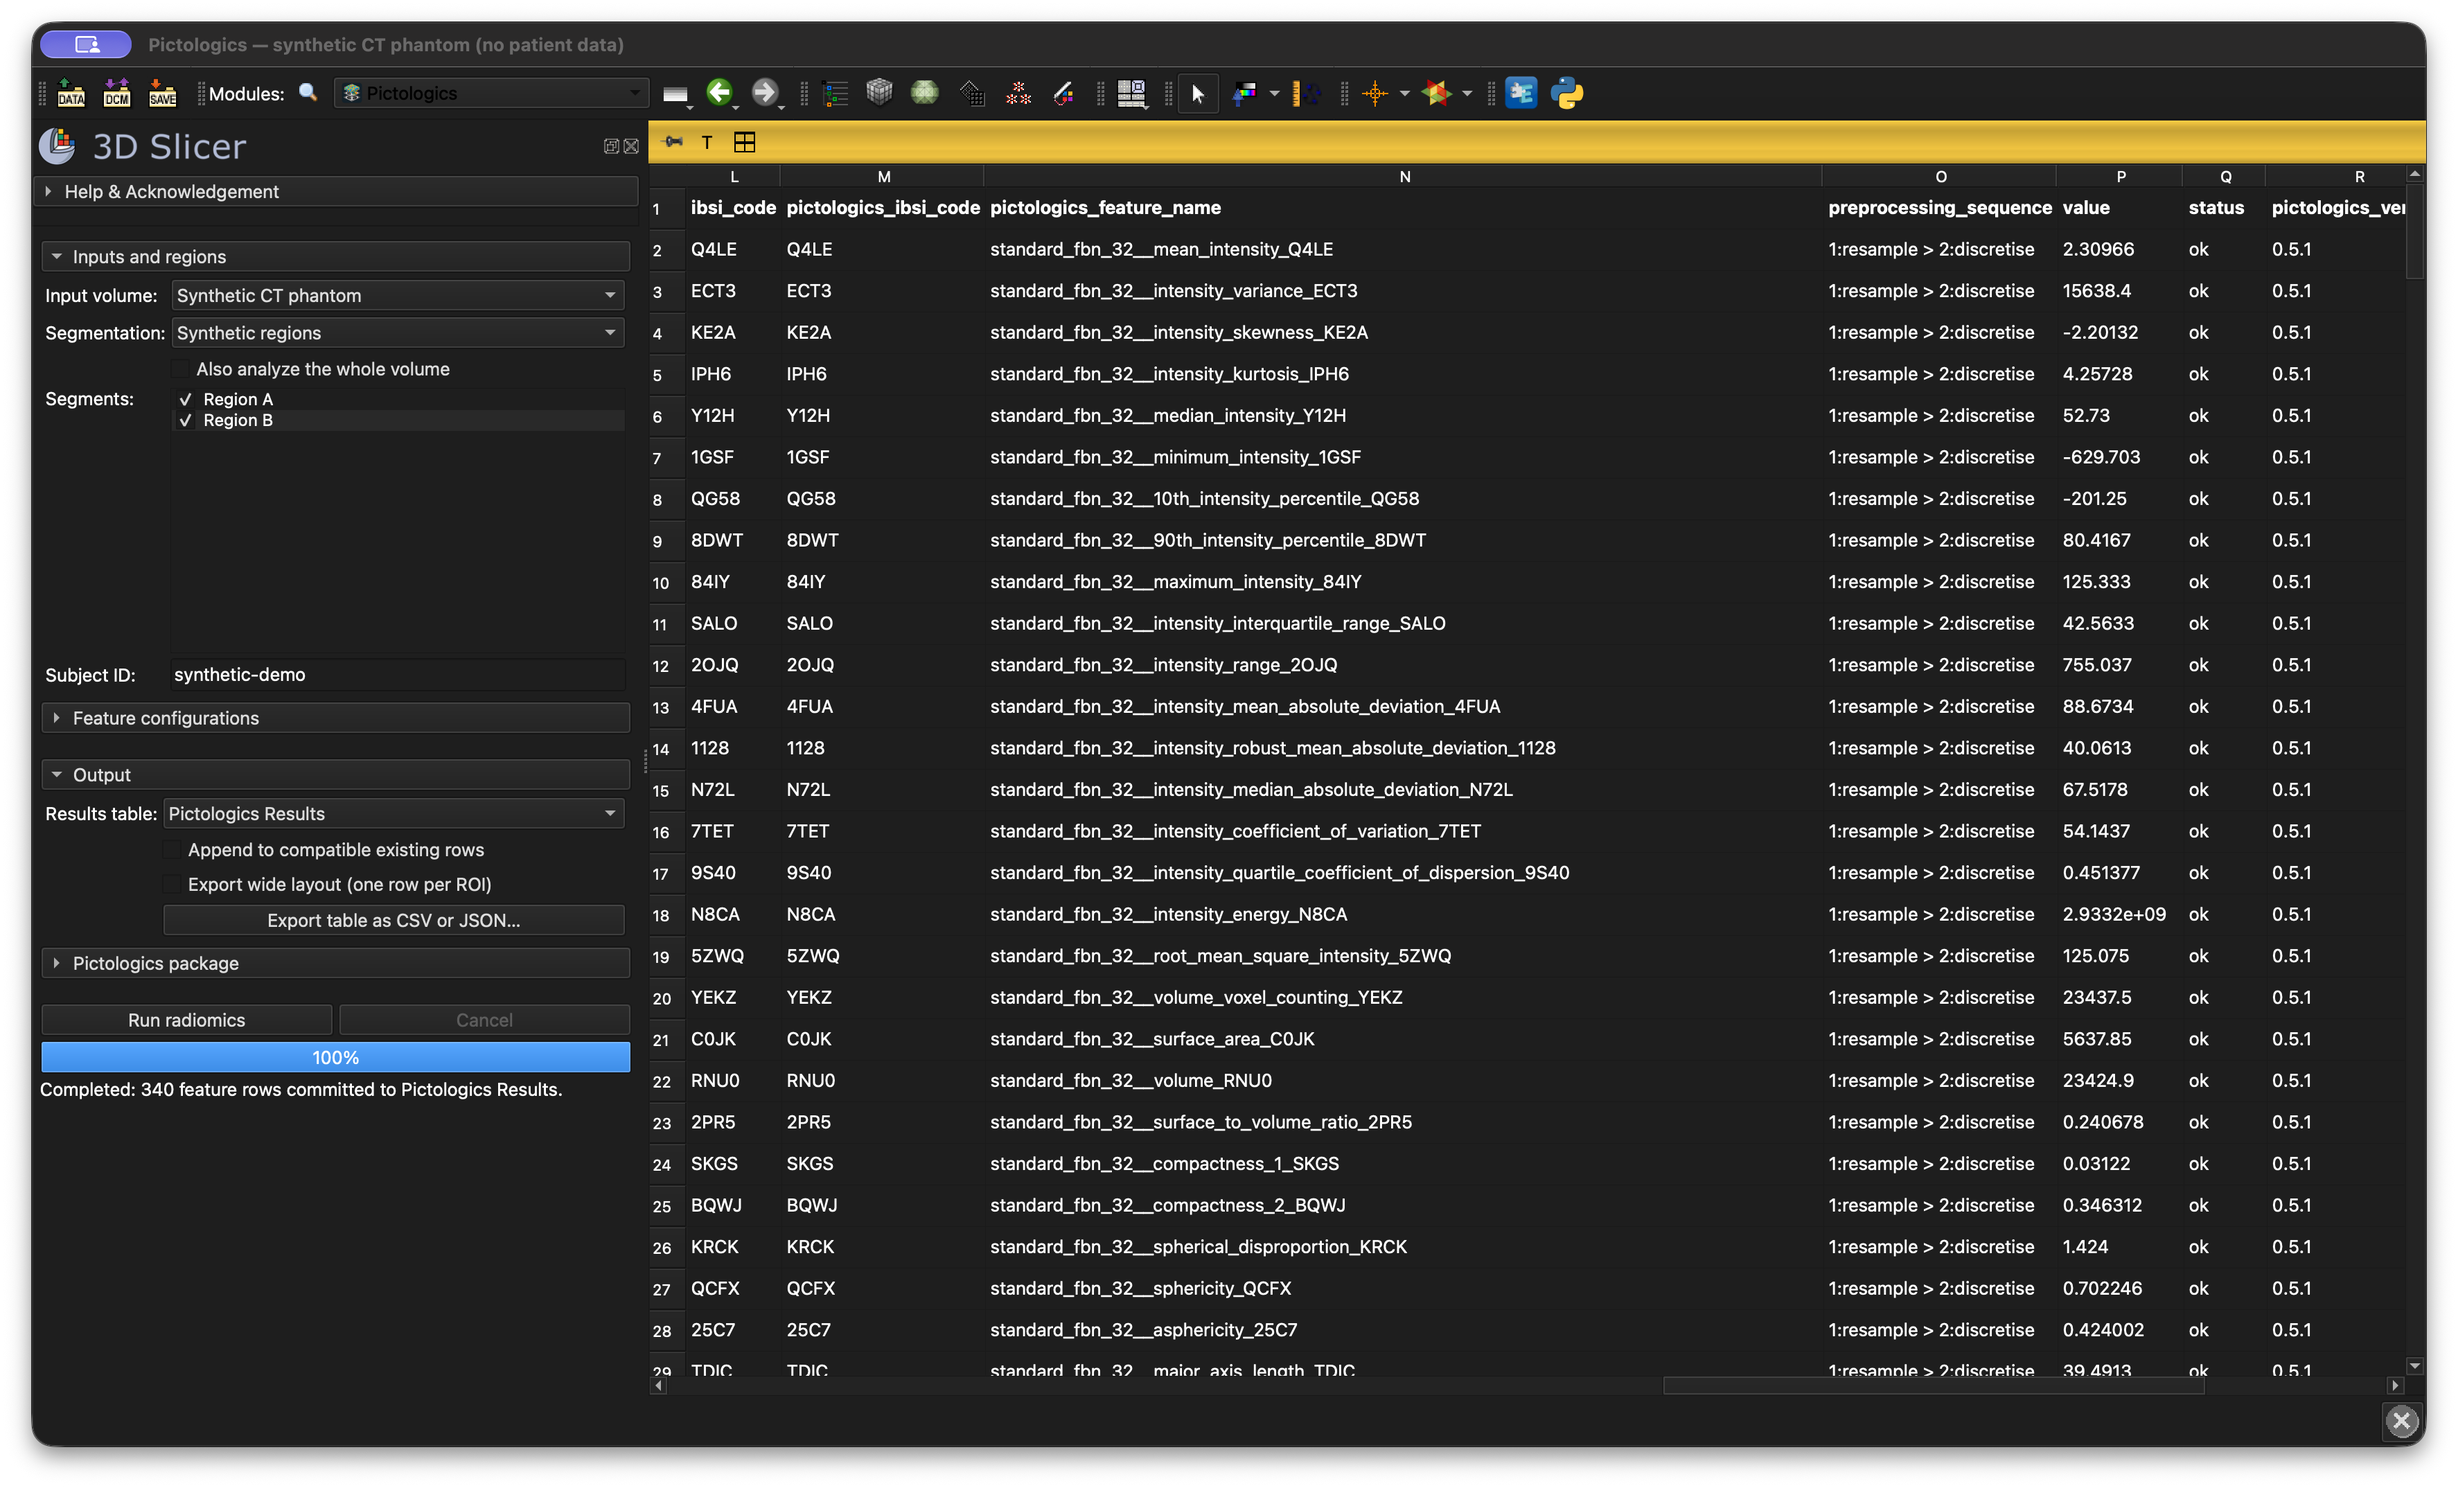
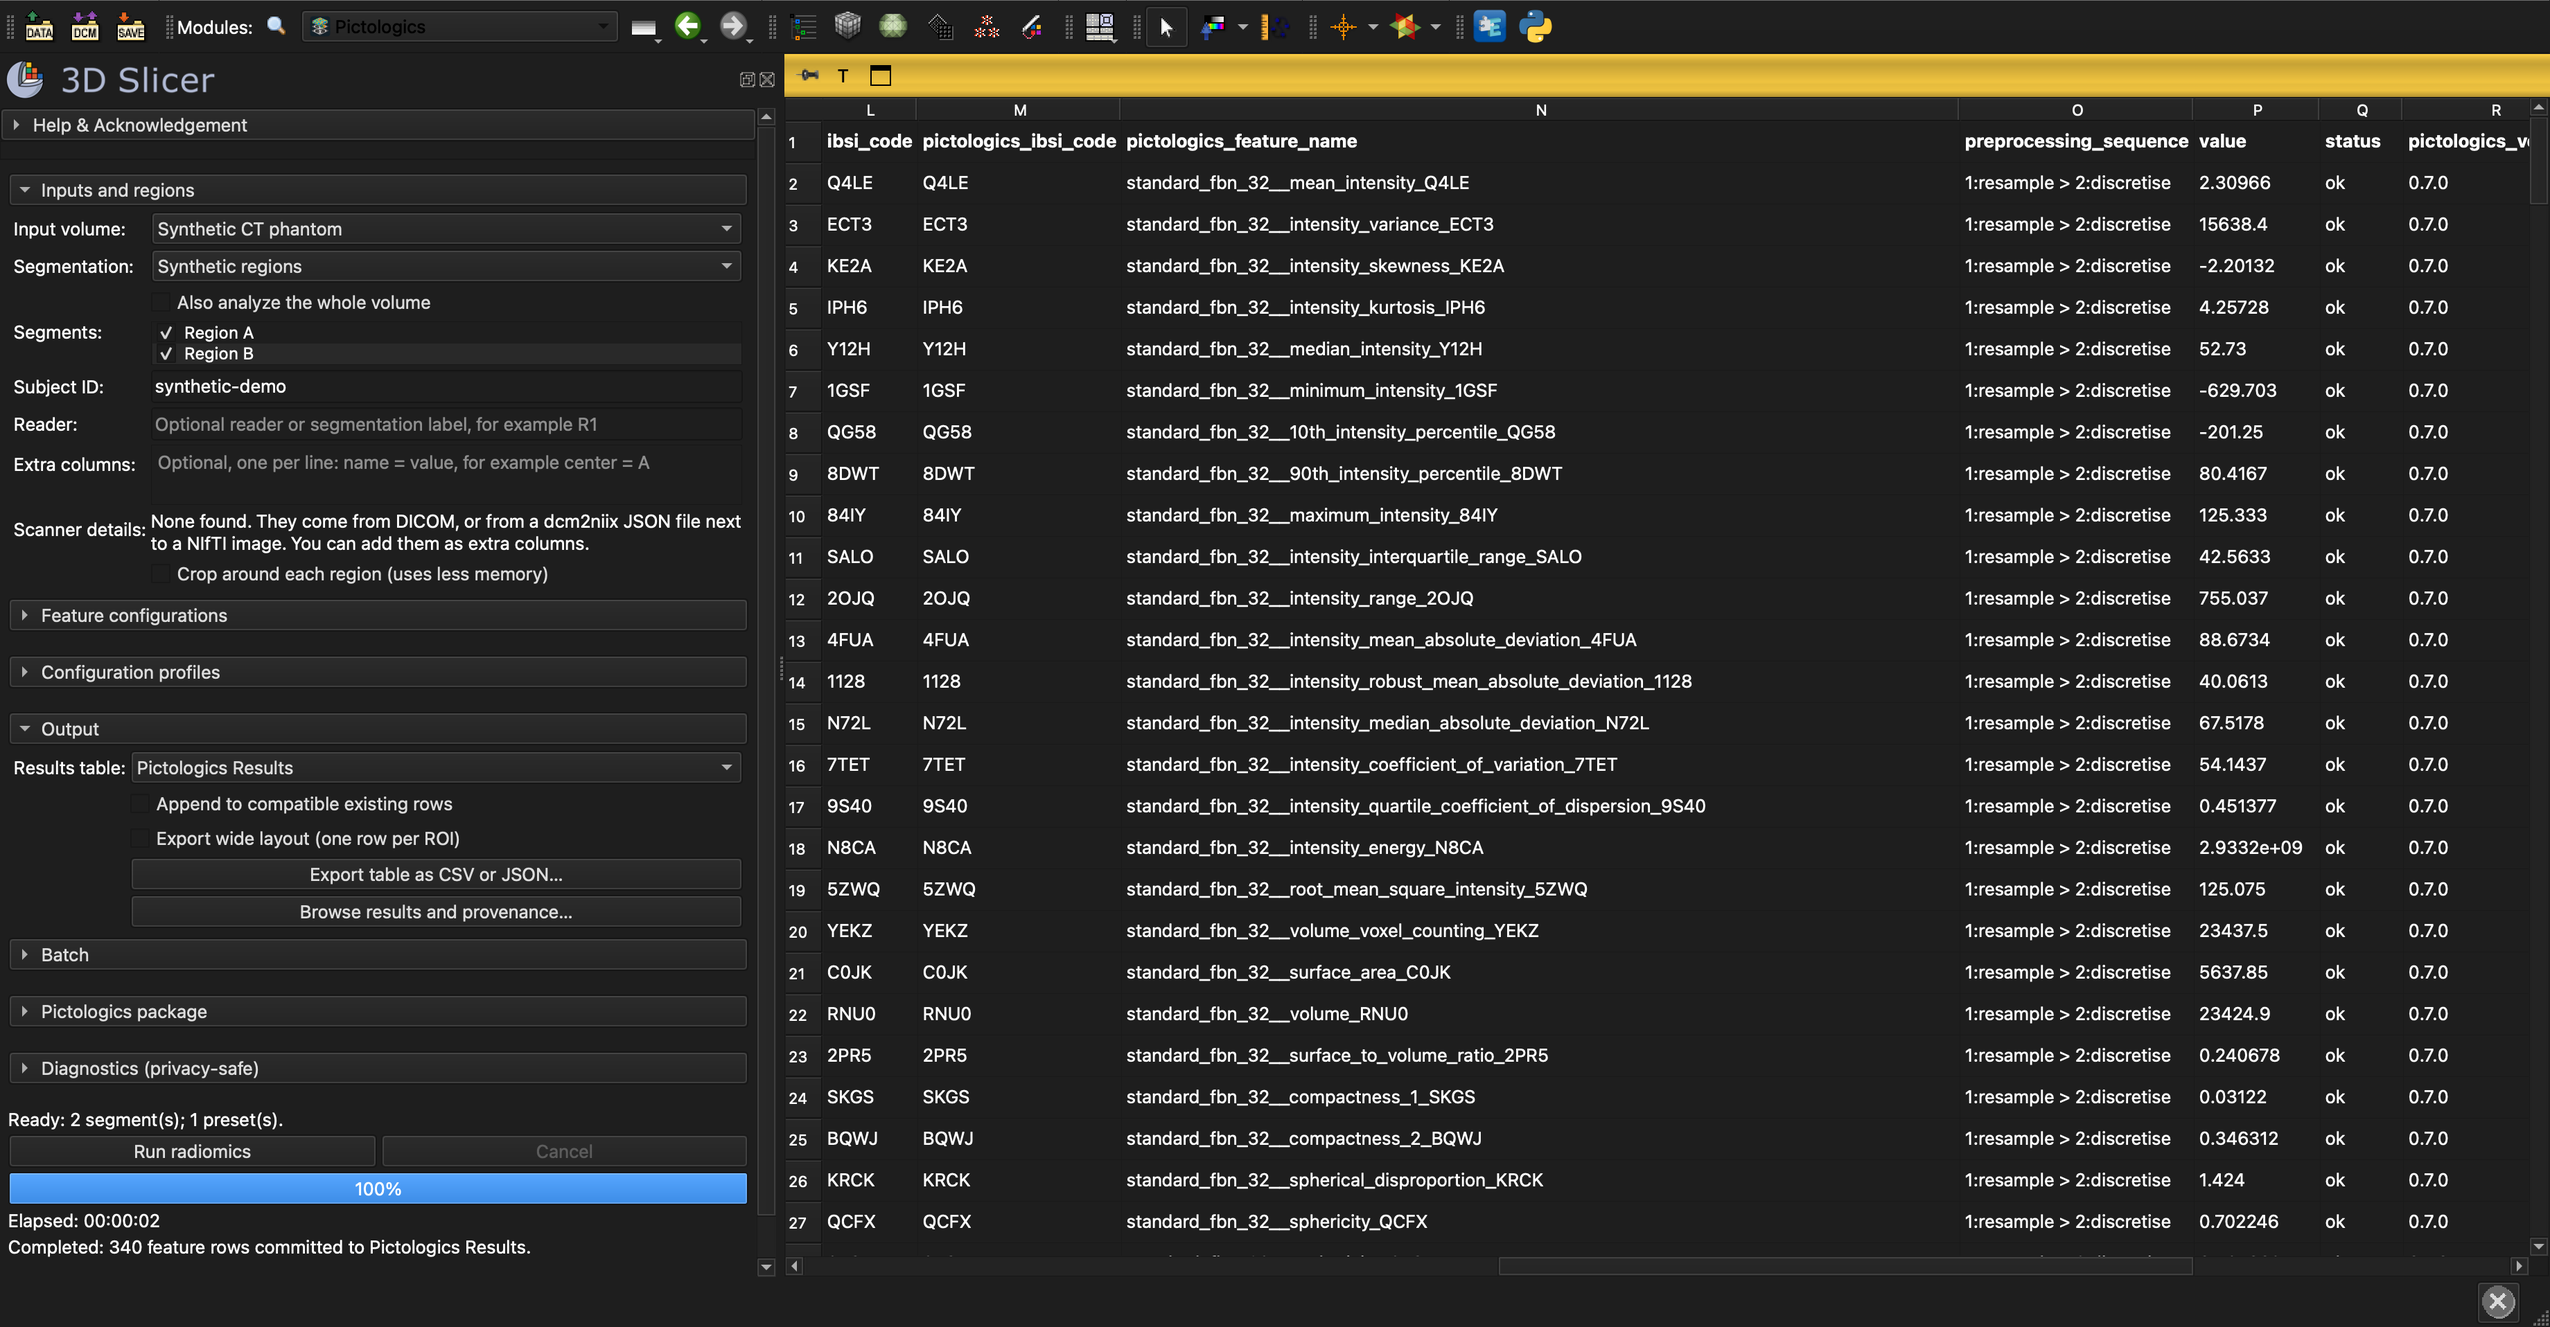
DOC: Replace the catalog images with Pictologics 0.7.0 captures
The maintainer approved two new catalog images on 2026-10-05. Both are
real captures in Slicer 5.12.4 on macOS with the published Pictologics
0.7.0. The workflow image shows the current window with the finished
MRHead run. The results image shows the synthetic phantom table, with
version 0.7.0 in each row.

The panel is now longer than the window, so the MRHead demo fits it:
the lists match their items, the extra-columns box shows two lines,
the profiles section is collapsed, and the panel is a little wider.
The screenshot record gives the new hashes and the capture steps.

Changed region(s): [[0.0, 0.0, 1.0, 1.0]]

diff --git a/scripts/create_sample_data_demo.py b/scripts/create_sample_data_demo.py
@@ -6,7 +6,7 @@ checksum. It may download MRHead but never installs Pictologics or uploads data.
 The two ellipsoidal masks are demonstration ROIs, not clinical annotations.
 Run radiomics with the normal module button; no result values are fabricated.
 Set PICTOLOGICS_DEMO_AUTORUN=1 to invoke that same module workflow on startup.
-Keep screenshots in local-output until the maintainer approves publication.
+Keep screenshots outside the repository until the maintainer approves publication.
 """
 
 from __future__ import annotations
@@ -20,6 +20,20 @@ import qt
 import SampleData
 import slicer
 import vtk
+
+
+def fit_panel(widget) -> None:
+    """Fit the longer panel to the window, without changing any setting or result.
+
+    The lists match their items, the extra-columns box shows two lines, the profiles
+    section is collapsed, and the panel is a little wider.
+    """
+    for items in (widget.ui.segmentListWidget, widget.ui.standardConfigListWidget):
+        items.setFixedHeight(items.sizeHintForRow(0) * items.count + 2 * items.frameWidth)
+    widget.ui.extraColumnsTextEdit.setFixedHeight(44)
+    widget.ui.profilesCollapsibleButton.collapsed = True
+    window = slicer.util.mainWindow()
+    window.resizeDocks([window.findChild("QDockWidget", "PanelDockWidget")], [560], qt.Qt.Horizontal)
 
 
 def create_demo() -> None:
@@ -84,8 +98,7 @@ def create_demo() -> None:
     widget.ui.configurationCollapsibleButton.collapsed = False
     widget.ui.outputCollapsibleButton.collapsed = True
     # Compact the demo's two short lists; this is only presentation, not saved settings.
-    widget.ui.segmentListWidget.setMaximumHeight(80)
-    widget.ui.standardConfigListWidget.setMaximumHeight(150)
+    fit_panel(widget)
 
     layout = slicer.app.layoutManager()
     layout.setLayout(slicer.vtkMRMLLayoutNode.SlicerLayoutFourUpView)

diff --git a/docs/screenshots/README.md b/docs/screenshots/README.md
@@ -1,20 +1,25 @@
 # Catalog screenshots
 
-Captured in 3D Slicer 5.12.4 on macOS (Intel/Rosetta), using the published
-Pictologics 0.5.1 wheel in the extension's existing private environment.
-Both PNGs are genuine, unretouched application-window captures, not mockups.
+Captured on 2026-10-05 in 3D Slicer 5.12.4 on macOS (Intel/Rosetta), using the
+published Pictologics 0.7.0 wheel with Numba 0.62.1 and NumPy 2.3.5. The extension
+installed it with its normal first-run installer into a separate, temporary package
+folder. Both PNGs are genuine, unretouched application-window captures, not mockups.
+The maintainer visually approved both on 2026-10-05.
 
 - `pictologics-workflow.png`: captured with
-  [`capture_sample_data_demo.py`](../../scripts/capture_sample_data_demo.py) and
-  visually approved by the maintainer on 2026-09-25. Real public **MRHead MRI** with
-  two selected demonstration ROIs, configuration controls, profiles, the readiness
-  line, the elapsed time, and completed extraction. Resolution: 3680 × 1990. The
-  capture shows the Slicer window contents without the macOS title bar; the view
-  annotations and segment names identify the public sample and the demonstration
-  ROIs. It replaces the 2026-09-22 image, which showed an earlier screen.
-- `pictologics-results.png`: captured on 2026-09-21 from a **separate synthetic
-  phantom run**, showing the actual result table and export controls. This image
-  is unchanged; approval of the new workflow image does not approve other revisions.
+  [`capture_sample_data_demo.py`](../../scripts/capture_sample_data_demo.py). Real
+  public **MRHead MRI** with two selected demonstration ROIs, the input fields
+  (including reader, extra columns, scanner details and crop), the configuration
+  controls, the readiness line, the elapsed time, and completed extraction.
+  Resolution: 3680 × 1916. The capture shows the Slicer window contents without the
+  macOS title bar; the view annotations and segment names identify the public sample
+  and the demonstration ROIs. It replaces the 2026-09-25 image, which showed the
+  window before the reader, extra-column, scanner, crop, batch and diagnostics controls.
+- `pictologics-results.png`: captured from a **separate synthetic phantom run** with
+  `standard_fbn_32` (340 rows, all `ok`). It shows the actual result table (columns L
+  to R, with `pictologics_version` 0.7.0) and the output controls. Resolution: 3680 ×
+  1916, without the macOS title bar. It replaces the 2026-09-21 image, which showed
+  Pictologics 0.5.1 and an earlier window.
 
 ## MRHead source and masks
 
@@ -32,8 +37,12 @@ voxels. Actual extraction produced **170 features per ROI, 340 rows total, all
 statuses `ok`**, with `standard_fbn_32`. The image contains no fabricated results.
 The sample volume itself is not included in this repository.
 
-Approved workflow PNG SHA-256:
[1 lines of base64/hex data omitted]
+Approved PNG SHA-256 values:
+
+- `pictologics-workflow.png`:
[1 lines of base64/hex data omitted]
+- `pictologics-results.png`:
[1 lines of base64/hex data omitted]
 
 ## Synthetic results-table example
 
@@ -75,15 +84,27 @@ contents, without the operating-system title bar.
    extraction; the script does not create synthetic result values.
 3. After verifying that both ROIs have computed results, the script restores the
    Four-Up anatomy view. Keep the public-sample/demonstration-ROI title visible.
-   Only the demo's list heights and view presentation are adjusted for readability;
-   saved application preferences and calculated results are not changed.
+   The demo fits the longer panel to the window (`fit_panel`): the lists match their
+   items, the extra-columns box shows two lines, the profiles section is collapsed,
+   and the panel is a little wider. This changes only the view, not saved application
+   preferences or calculated results.
 4. Capture only the application window; exclude other applications and desktop
    content. Inspect each PNG for readability and unintended personal information.
 
 To reproduce the separate synthetic results-table screenshot, use
-`scripts/create_catalog_demo.py` instead. Keep all new captures in the Git-ignored
-`local-output/catalog-review/` folder and obtain maintainer visual approval before
-copying them into published documentation. Agent inspection is not maintainer approval.
+`scripts/create_catalog_demo.py` instead, then:
+
+1. Select **Run radiomics** with `standard_fbn_32`, and select **Continue** at the
+   large-run memory warning.
+2. Wait for **340 feature rows**. Collapse **Feature configurations**, expand
+   **Output**, and fit the panel as the MRHead demo does.
+3. Show the results table in a layout with one table view, and scroll to the
+   `ibsi_code` column.
+4. Capture only the application window.
+
+Keep new captures in a temporary folder outside the repository and outside synced
+folders. Obtain maintainer visual approval before copying them into published
+documentation. Agent inspection is not maintainer approval.
 
 Screenshots are documentation/catalog assets only. They are not included in the
 installed Python module resources. `EXTENSION_SCREENSHOTURLS` in the root CMake

diff --git a/README.md b/README.md
@@ -43,9 +43,9 @@ Both segments were analyzed: **170 features per segment, 340 total**.
 
 ![Pictologics results from real extraction on the synthetic regions](docs/screenshots/pictologics-results.png)
 
-Results-table example: a separate run on the earlier **synthetic CT-like phantom**,
-not the MRHead run above. Both examples are genuine Slicer captures using
-Pictologics 0.5.1 and `standard_fbn_32`.
+Results-table example: a separate run on the **synthetic CT-like phantom**, not the
+MRHead run above. Both examples are genuine Slicer captures using Pictologics 0.7.0
+and `standard_fbn_32`.
 See [sample attribution, capture provenance, and reproduction](docs/screenshots/README.md).
 
 A [small real CT example and reproducible workload benchmarks](docs/performance.md)

diff --git a/docs/macos-compatibility-handoff.md b/docs/macos-compatibility-handoff.md
@@ -447,7 +447,7 @@ checks are in a temporary folder and are not kept.
 1. Run the installed-Slicer suite with the published wheel on Windows and on Slicer
    Preview.
 2. Install a built extension package, restart Slicer and run it.
-3. Replace the catalog screenshots after maintainer approval.
-4. Submit the ExtensionsIndex entry for Preview and Stable.
+3. Submit the ExtensionsIndex entry for Preview and Stable.
+- The maintainer approved new catalog screenshots with 0.7.0 on 2026-10-05.
 - The release notice from Pictologics needs the `SLICER_EXTENSION_DISPATCH_TOKEN`
   secret. Without it, only the six-hourly schedule starts the adoption run.

diff --git a/docs/release-readiness.md b/docs/release-readiness.md
@@ -826,5 +826,6 @@ Adoption run 37331419353 then passed all jobs: the three resolve jobs, the merge
 the runtime constraints, the unit tests, the released-wheel checks on Linux, Windows
 and Intel macOS, and real Slicer on Linux. Its publish job committed the 0.7.0 pin as
 `d6e2bed`. The pull-request CI run on the same files as `main` (`61a4b3f`) passed all
-five jobs. The Windows Slicer application check and the catalog images still use
-0.5.1 evidence.
+five jobs. The Windows Slicer application check still uses 0.5.1 evidence. The
+maintainer approved new [catalog images](screenshots/README.md) with 0.7.0 on
+2026-10-05.
